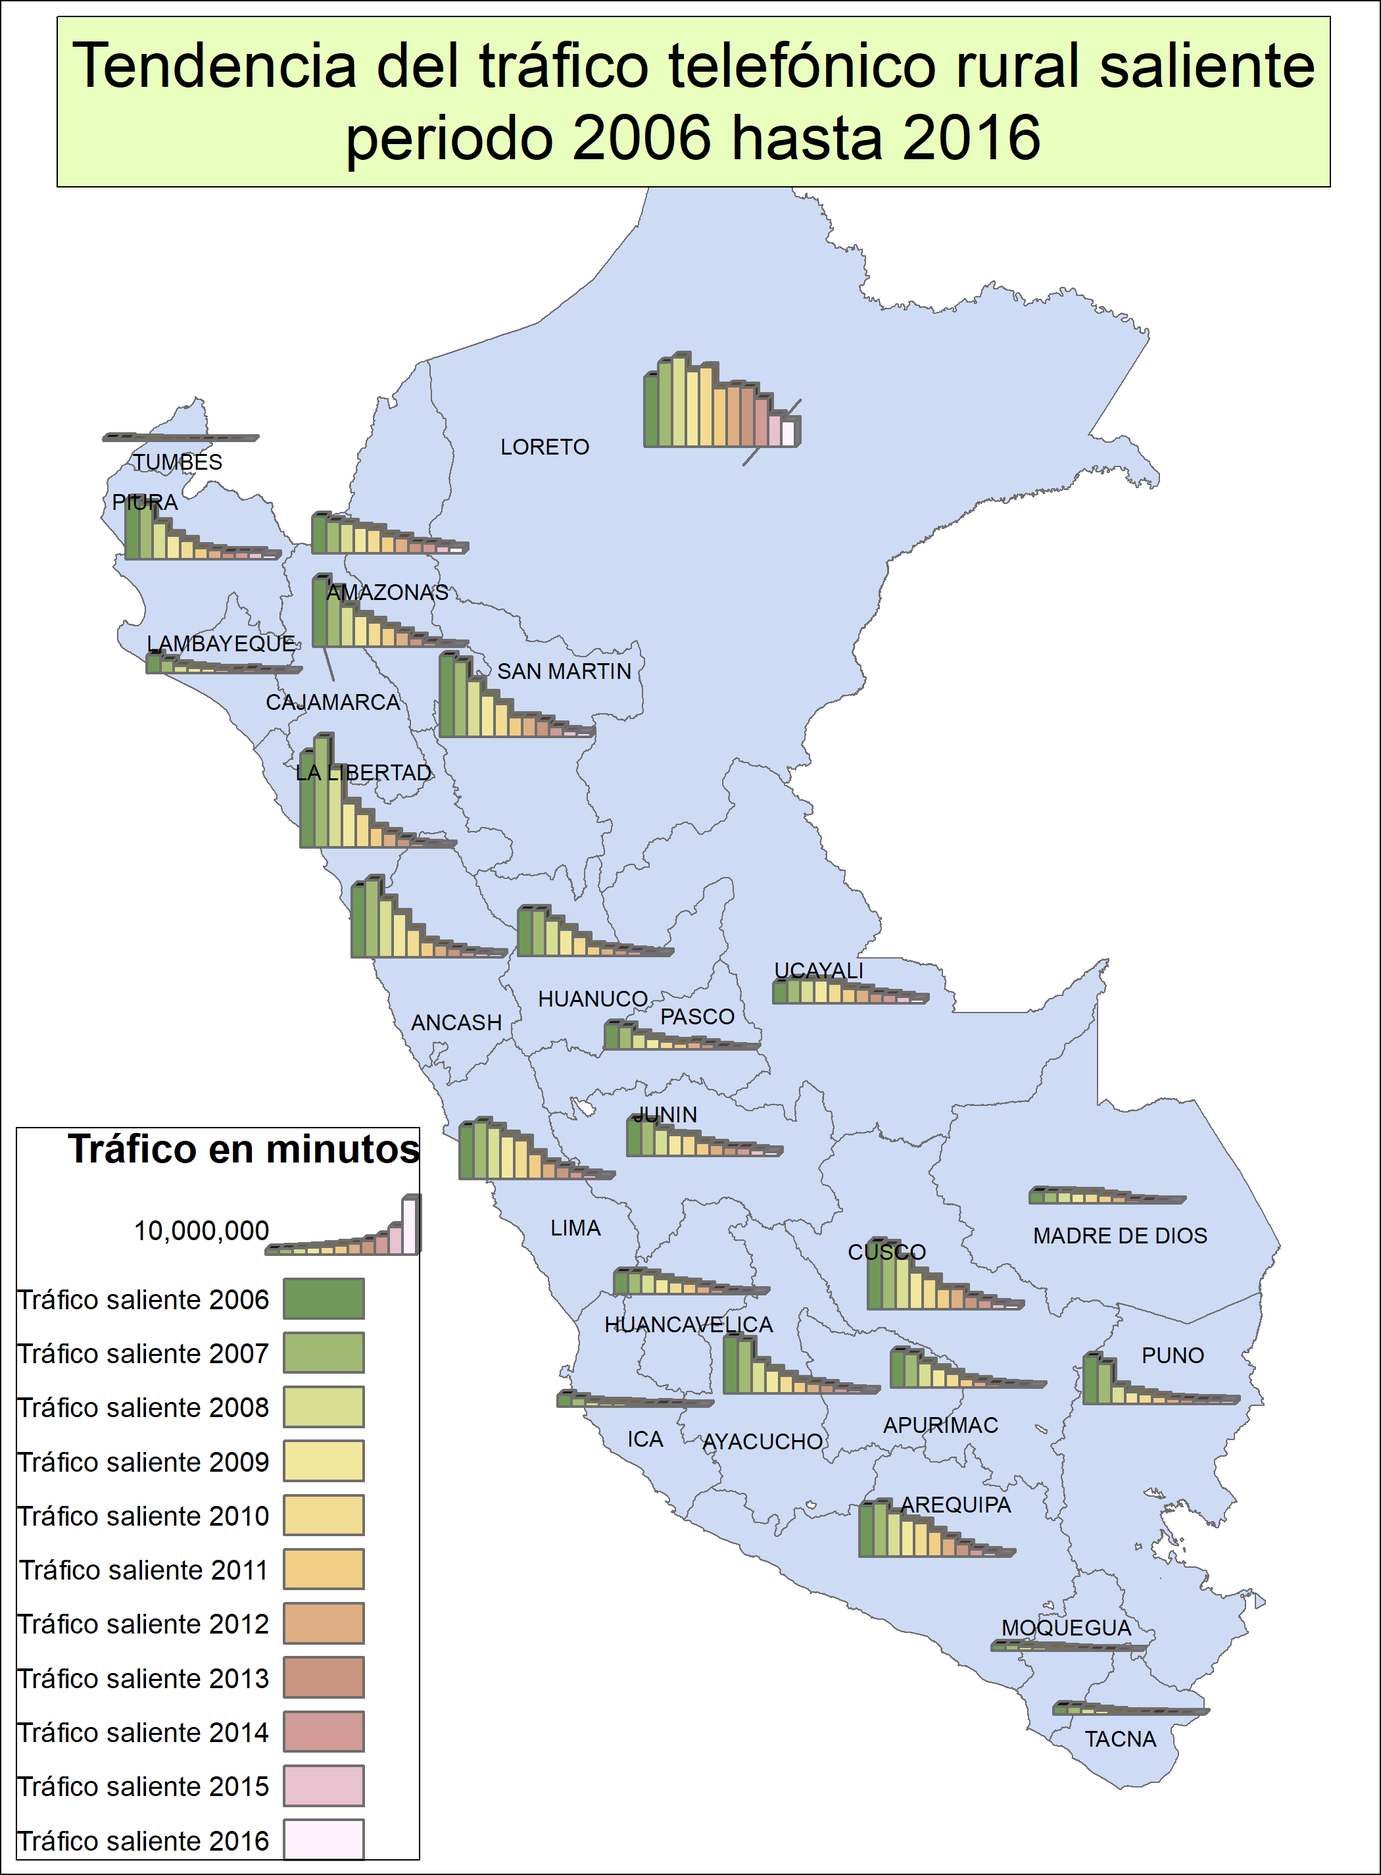
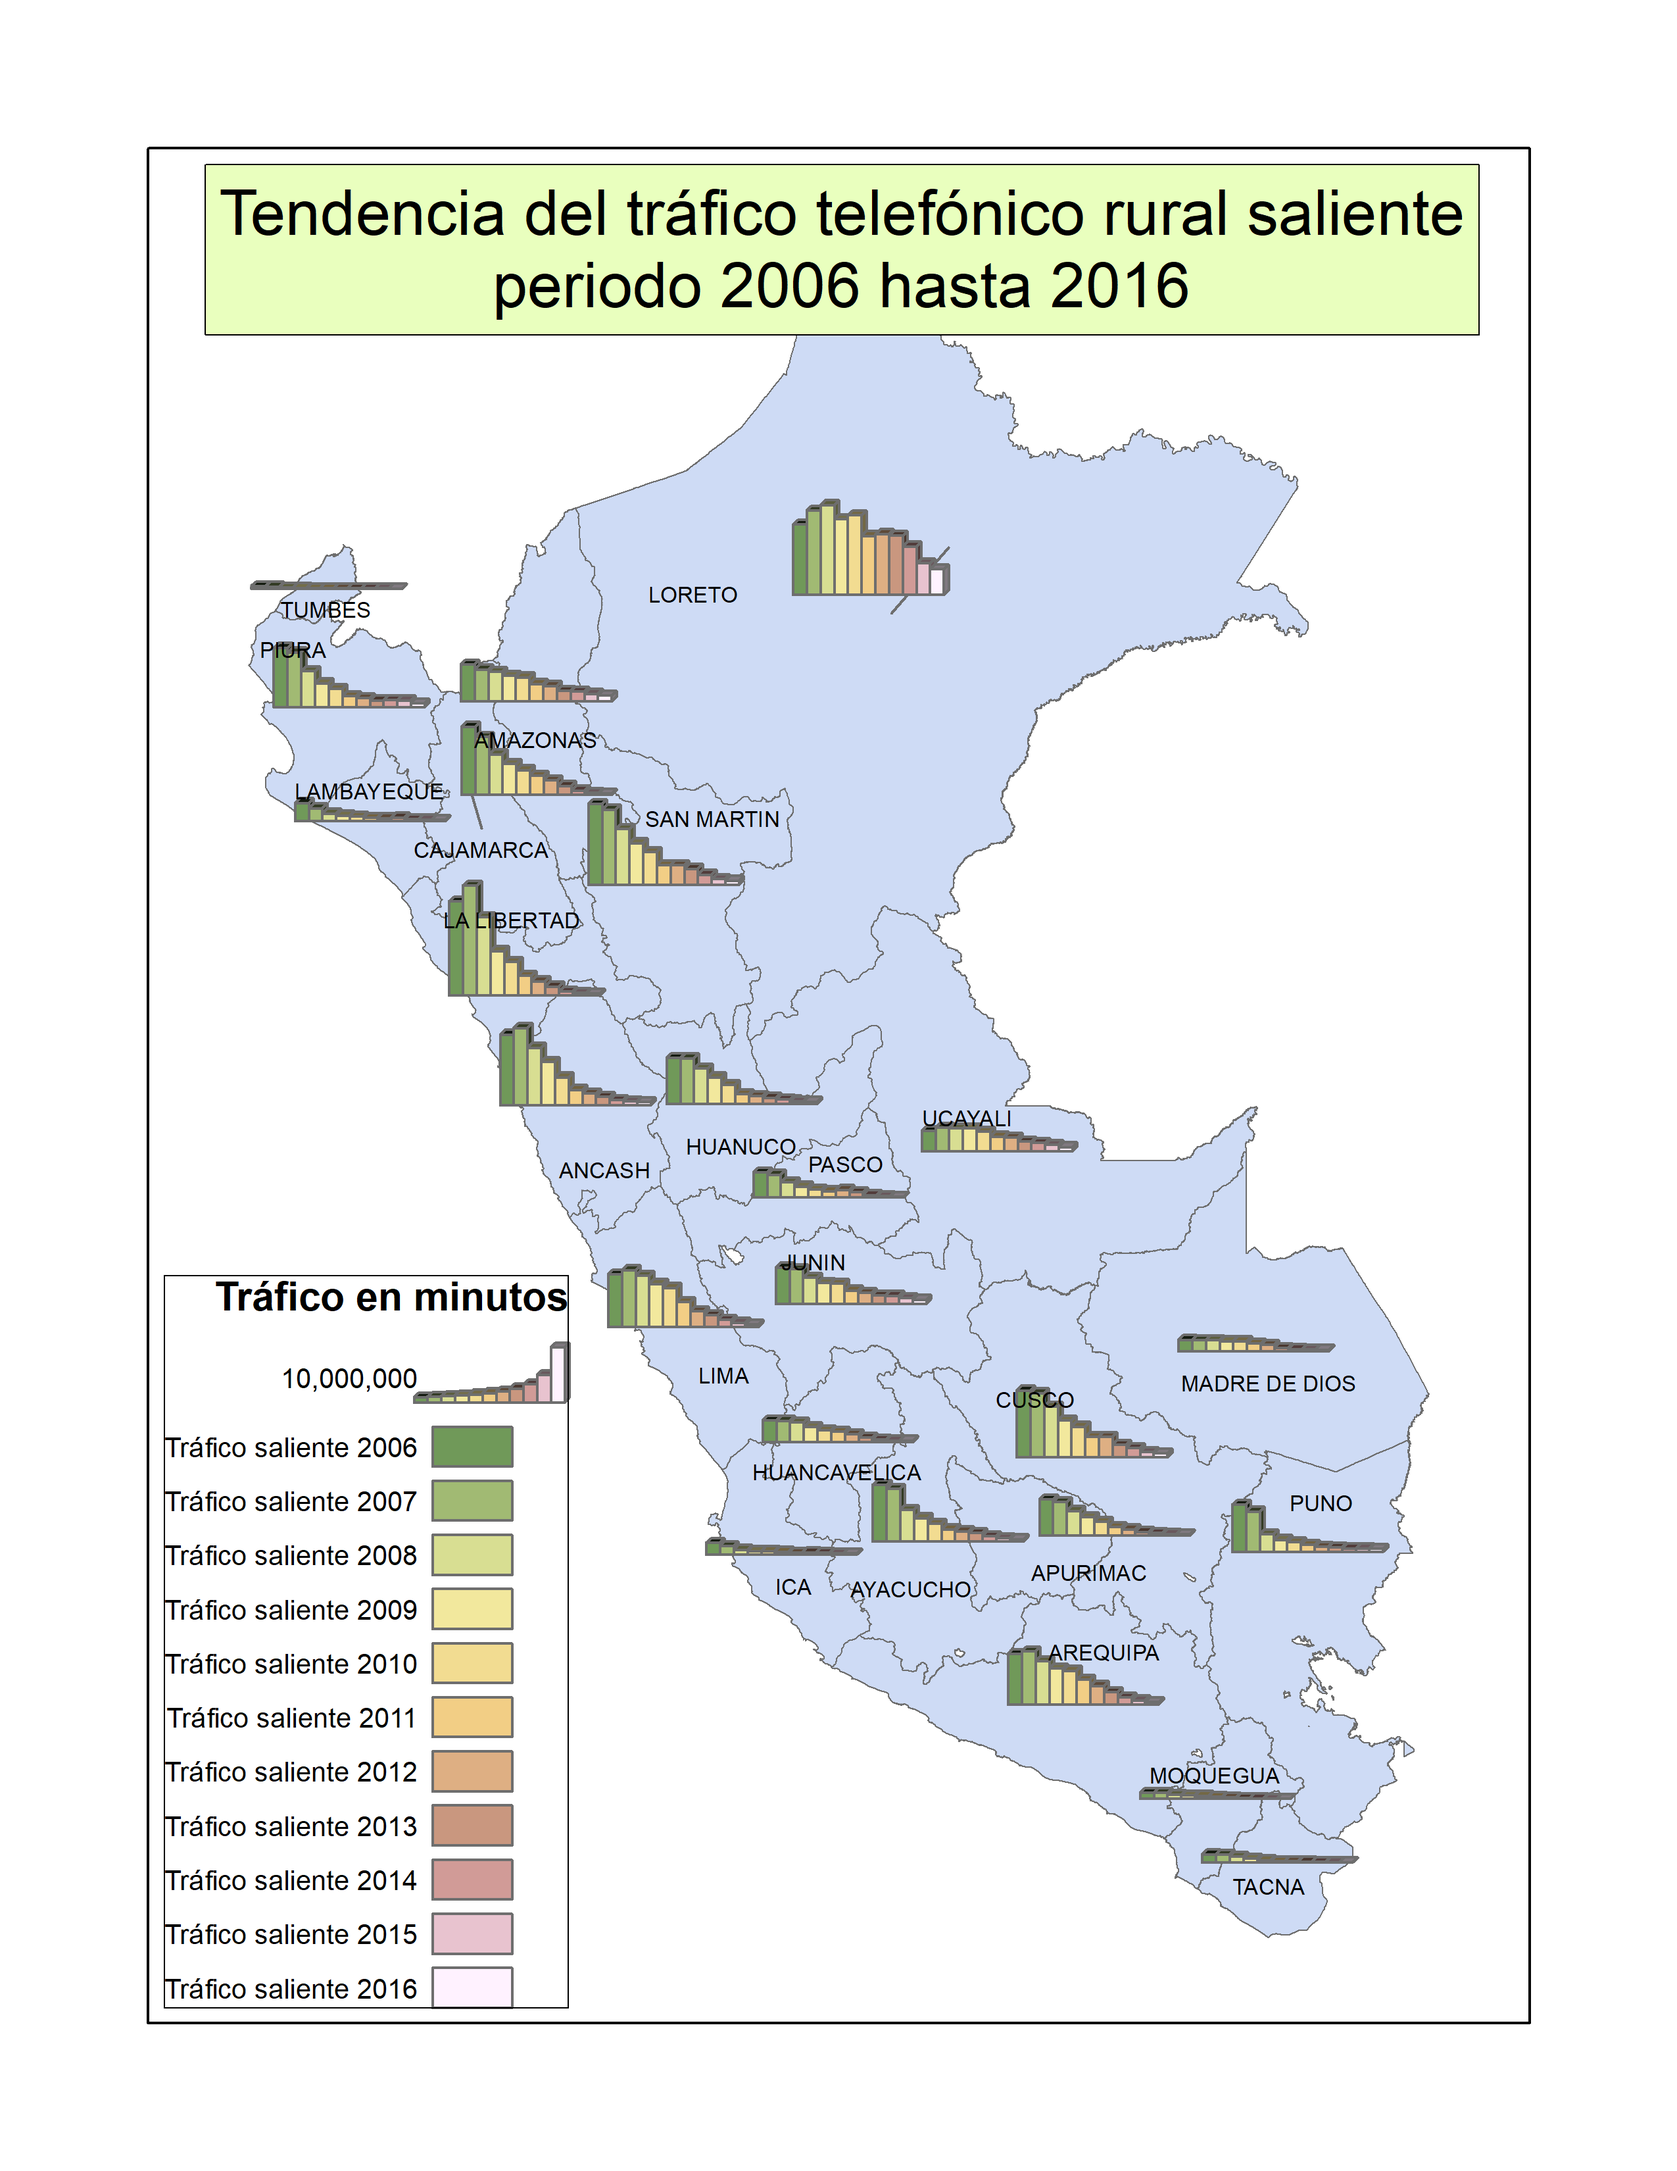
agregando imagenes de trafico

diff --git a/README.md b/README.md
@@ -1,8 +1,8 @@
-# Graficando comportamiento del tráfico rural en PERU
+# Graficando comportamiento del tráfico rural en PERÚ
 
-Se toma los datos publicos del tráfico telefonico rural en el Perú y se grafica su comportamiento, en el periodo de 10 años, desde el 2006 hasta el 2016.
+Se toma los datos publicos del tráfico telefónico rural en el Perú y se grafica su comportamiento, en el periodo de 10 años, desde el 2006 hasta el 2016.
 
-La fuente de datos esta disponible, de forma publica y abierta en la siguiente:
+La fuente de datos esta disponible, de forma pública y abierta en la siguiente:
 * https://www.osiptel.gob.pe/documentos/8-indicadores-de-servicios-de-comunicaciones-rurales
 
 Para este analisis, se tomaron en cuenta los indicadores de servicio de comunicaciones rurales, tales como:
@@ -30,3 +30,8 @@ La pregunta que nos intereza responder es explicar la razón de este decremento 
 
 Se explora el comportamiento del tráfico rural a tráves del tiempo y de mapas, que nos ayudan a entender la migración de tráfico ocurrida en los ultimos 10 años.
 
+## Tendencia del tráfico telefónico rural entrante periodo 2006 hasta 2016
+![Trafico rural](images/trafico_rural_entrante_2006-2016.png "Tráfico rural entrante periodo 2006 hasta 2016")
+
+## Tendencia del tráfico telefónico rural saliente periodo 2006 hasta 2016
+![Trafico rural](images/trafico_rural_saliente_2006-2016.png "Tráfico rural saliente periodo 2006 hasta 2016")
